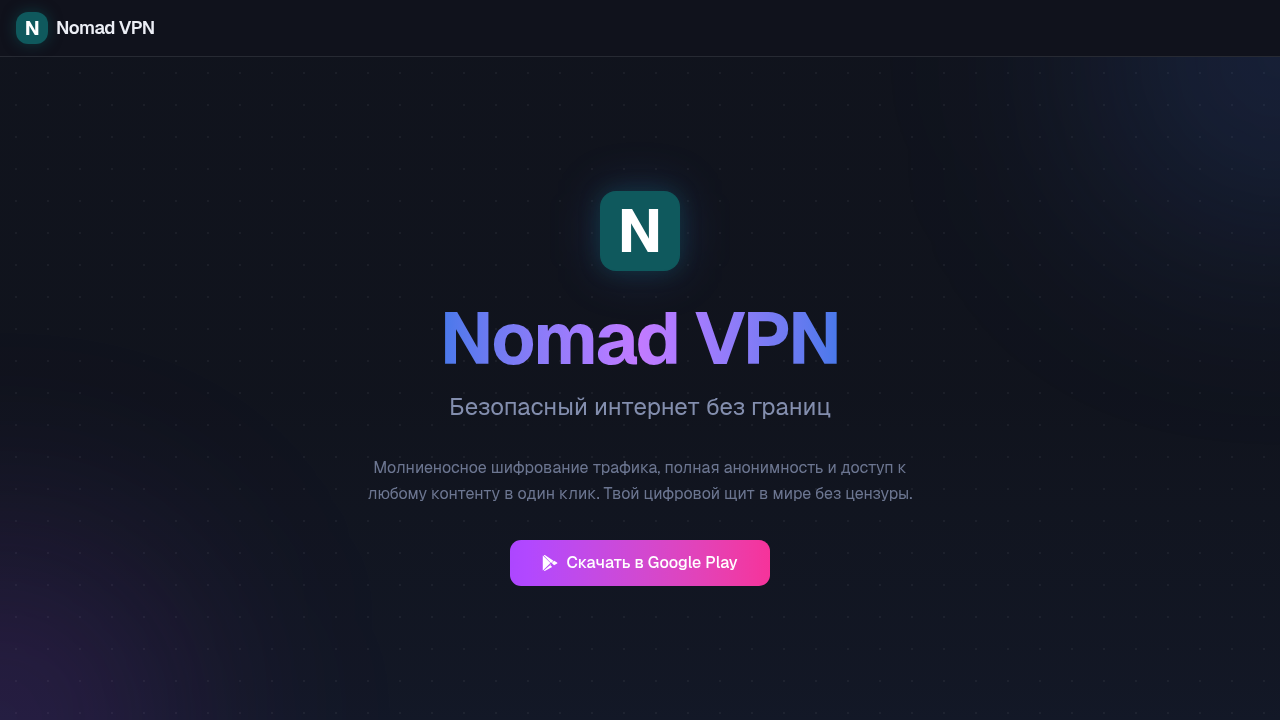
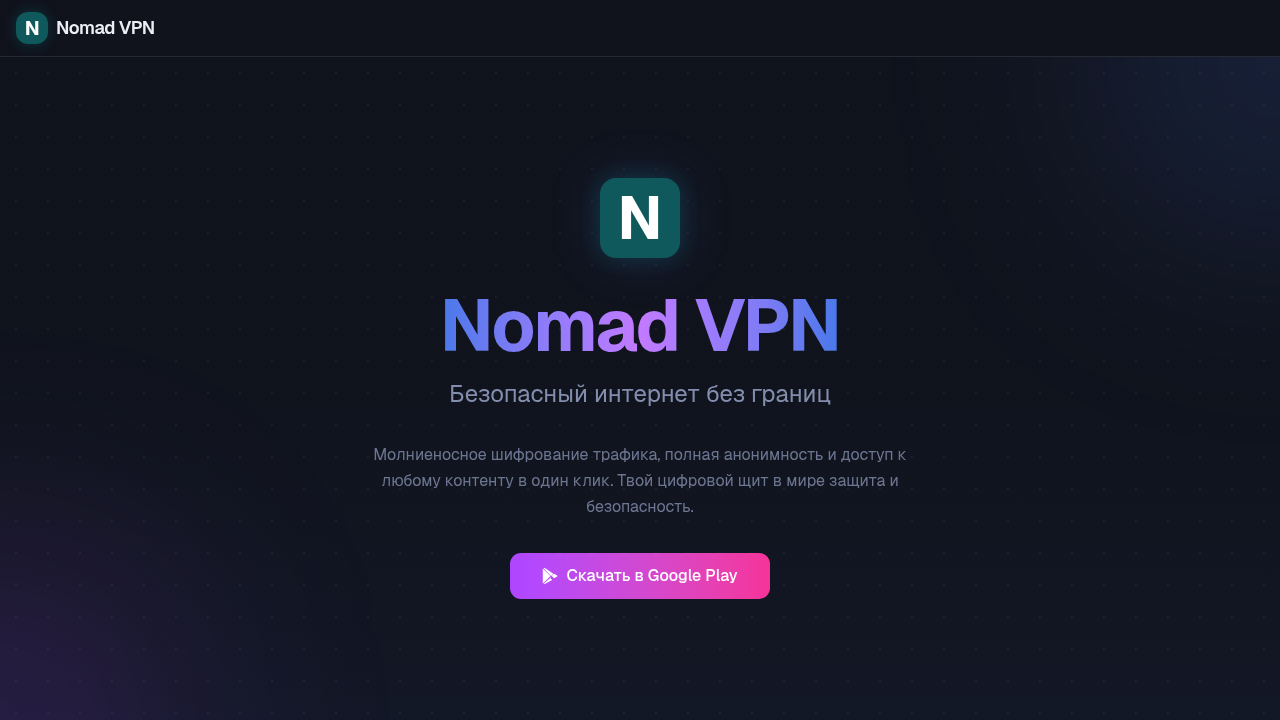
Added

Changed region(s): [[0.2812, 0.6111, 0.7188, 0.8556], [0.3438, 0.2444, 0.6562, 0.5806]]

diff --git a/lib/data.ts b/lib/data.ts
@@ -2,7 +2,7 @@ export const siteConfig = {
   name: "Nomad VPN",
   slogan: "Безопасный интернет без границ",
   description:
-    "Молниеносное шифрование трафика, полная анонимность и доступ к любому контенту в один клик. Твой цифровой щит в мире без цензуры.",
+    "Молниеносное шифрование трафика, полная анонимность и доступ к любому контенту в один клик. Твой цифровой щит в мире защита и безопасность.",
   cta: "Скачать в Google Play",
   googlePlayUrl:
     "https://play.google.com/store/apps/details?id=com.rg.nomadvpnne",
@@ -69,9 +69,9 @@ export const benefits: Benefit[] = [
     icon: "Zap",
   },
   {
-    title: "Военная безопасность",
+    title: "Шифрование",
     description:
-      "AES-256 шифрование и автоматический Kill Switch. Твои данные под надёжной защитой даже при обрыве соединения.",
+      "AES-256 шифрование твоих данных на всех устройствах. Надёжная защита от перехвата и несанкционированного доступа.",
     icon: "ShieldCheck",
   },
   {
@@ -83,7 +83,7 @@ export const benefits: Benefit[] = [
   {
     title: "87 серверов в 40 странах",
     description:
-      "Глобальная сеть для обхода блокировок и доступа к контенту из любой точки мира. Новые локации каждый месяц.",
+      "Глобальная сеть для шифрования данных и доступа к контенту из любой точки мира. Новые локации каждый месяц.",
     icon: "Globe",
   },
 ];